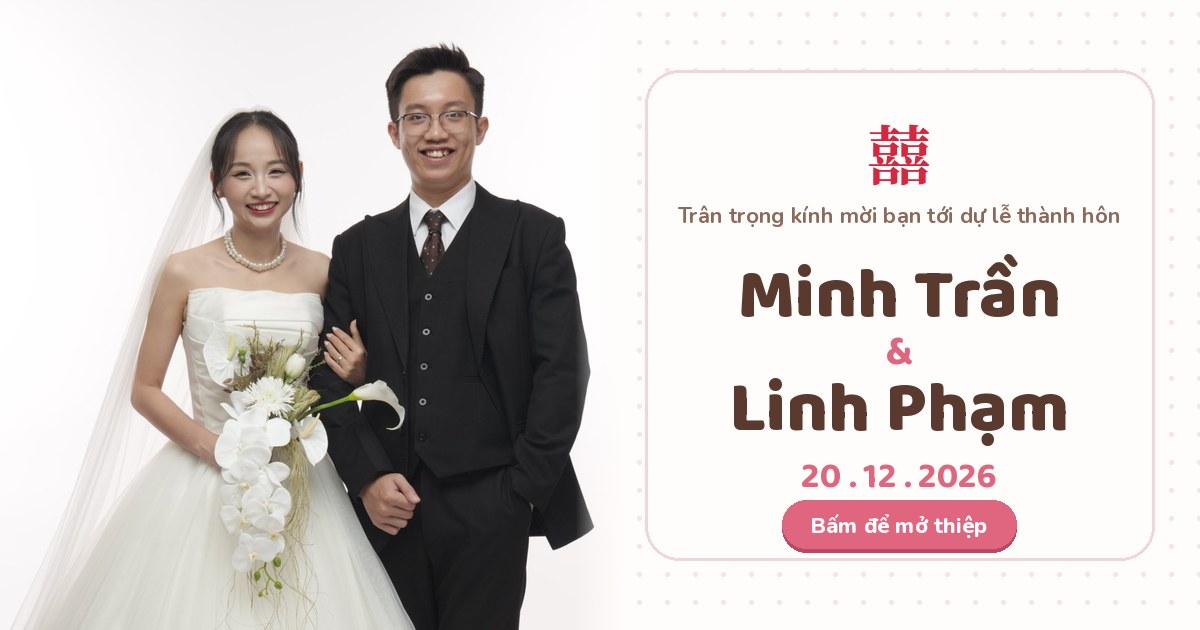
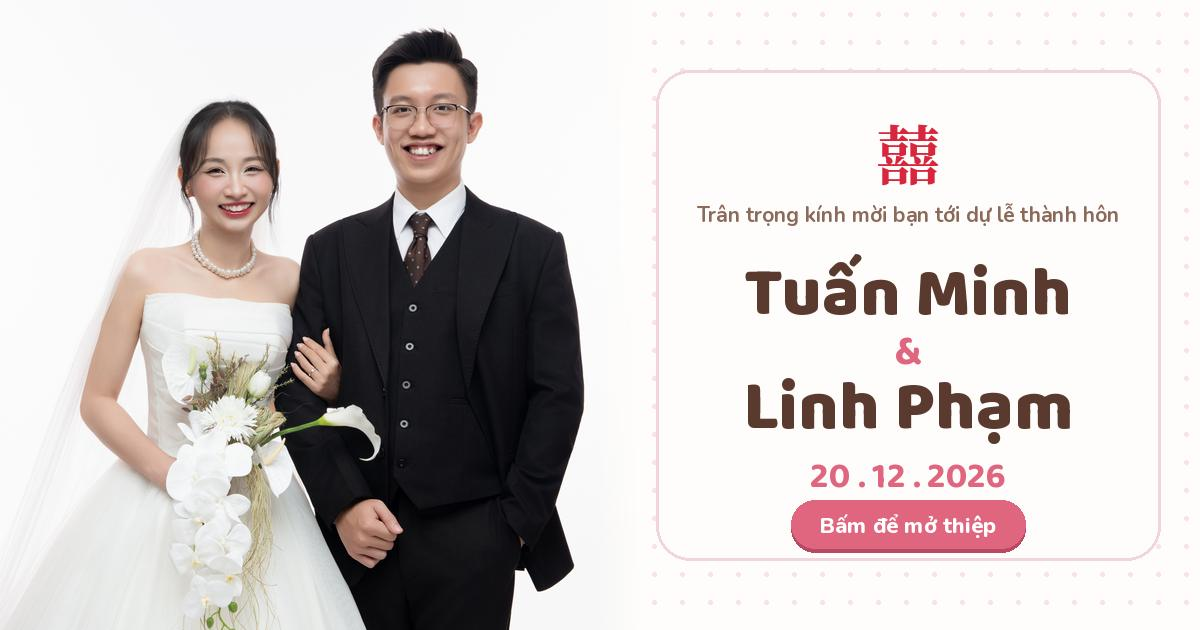
Sửa thumnail

diff --git a/index.html b/index.html
@@ -6,12 +6,12 @@
   <!-- ===== NỘI DUNG HIỆN KHI GỬI LINK QUA ZALO / FACEBOOK / MESSENGER =====
        Zalo, Facebook không chạy JavaScript nên không đọc được dữ liệu từ admin.
        Muốn đổi chữ hoặc ảnh xem trước thì sửa trực tiếp các dòng bên dưới. -->
-  <title>Minh Trần & Linh Phạm · Thiệp cưới 20.12.2026</title>
-  <meta name="description" content="Trân trọng kính mời bạn tới dự lễ thành hôn của Minh Trần & Linh Phạm vào ngày 20.12.2026. Bấm để mở thiệp nhé 💌">
+  <title>Tuấn Minh & Linh Phạm · Thiệp cưới 20.12.2026</title>
+  <meta name="description" content="Trân trọng kính mời bạn tới dự lễ thành hôn của Tuấn Minh & Linh Phạm vào ngày 20.12.2026. Bấm để mở thiệp nhé 💌">
   <meta property="og:type" content="website">
-  <meta property="og:site_name" content="Minh Trần & Linh Phạm">
+  <meta property="og:site_name" content="Tuấn Minh & Linh Phạm">
   <meta property="og:url" content="https://minhlinh-wedding.vercel.app/">
-  <meta property="og:title" content="Minh Trần & Linh Phạm · Thiệp cưới 20.12.2026">
+  <meta property="og:title" content="Tuấn Minh & Linh Phạm · Thiệp cưới 20.12.2026">
   <meta property="og:description" content="Trân trọng kính mời bạn tới dự lễ thành hôn của chúng mình. Bấm để mở thiệp nhé 💌">
   <meta property="og:image" content="https://minhlinh-wedding.vercel.app/share.jpg">
   <meta property="og:image:width" content="1200">
